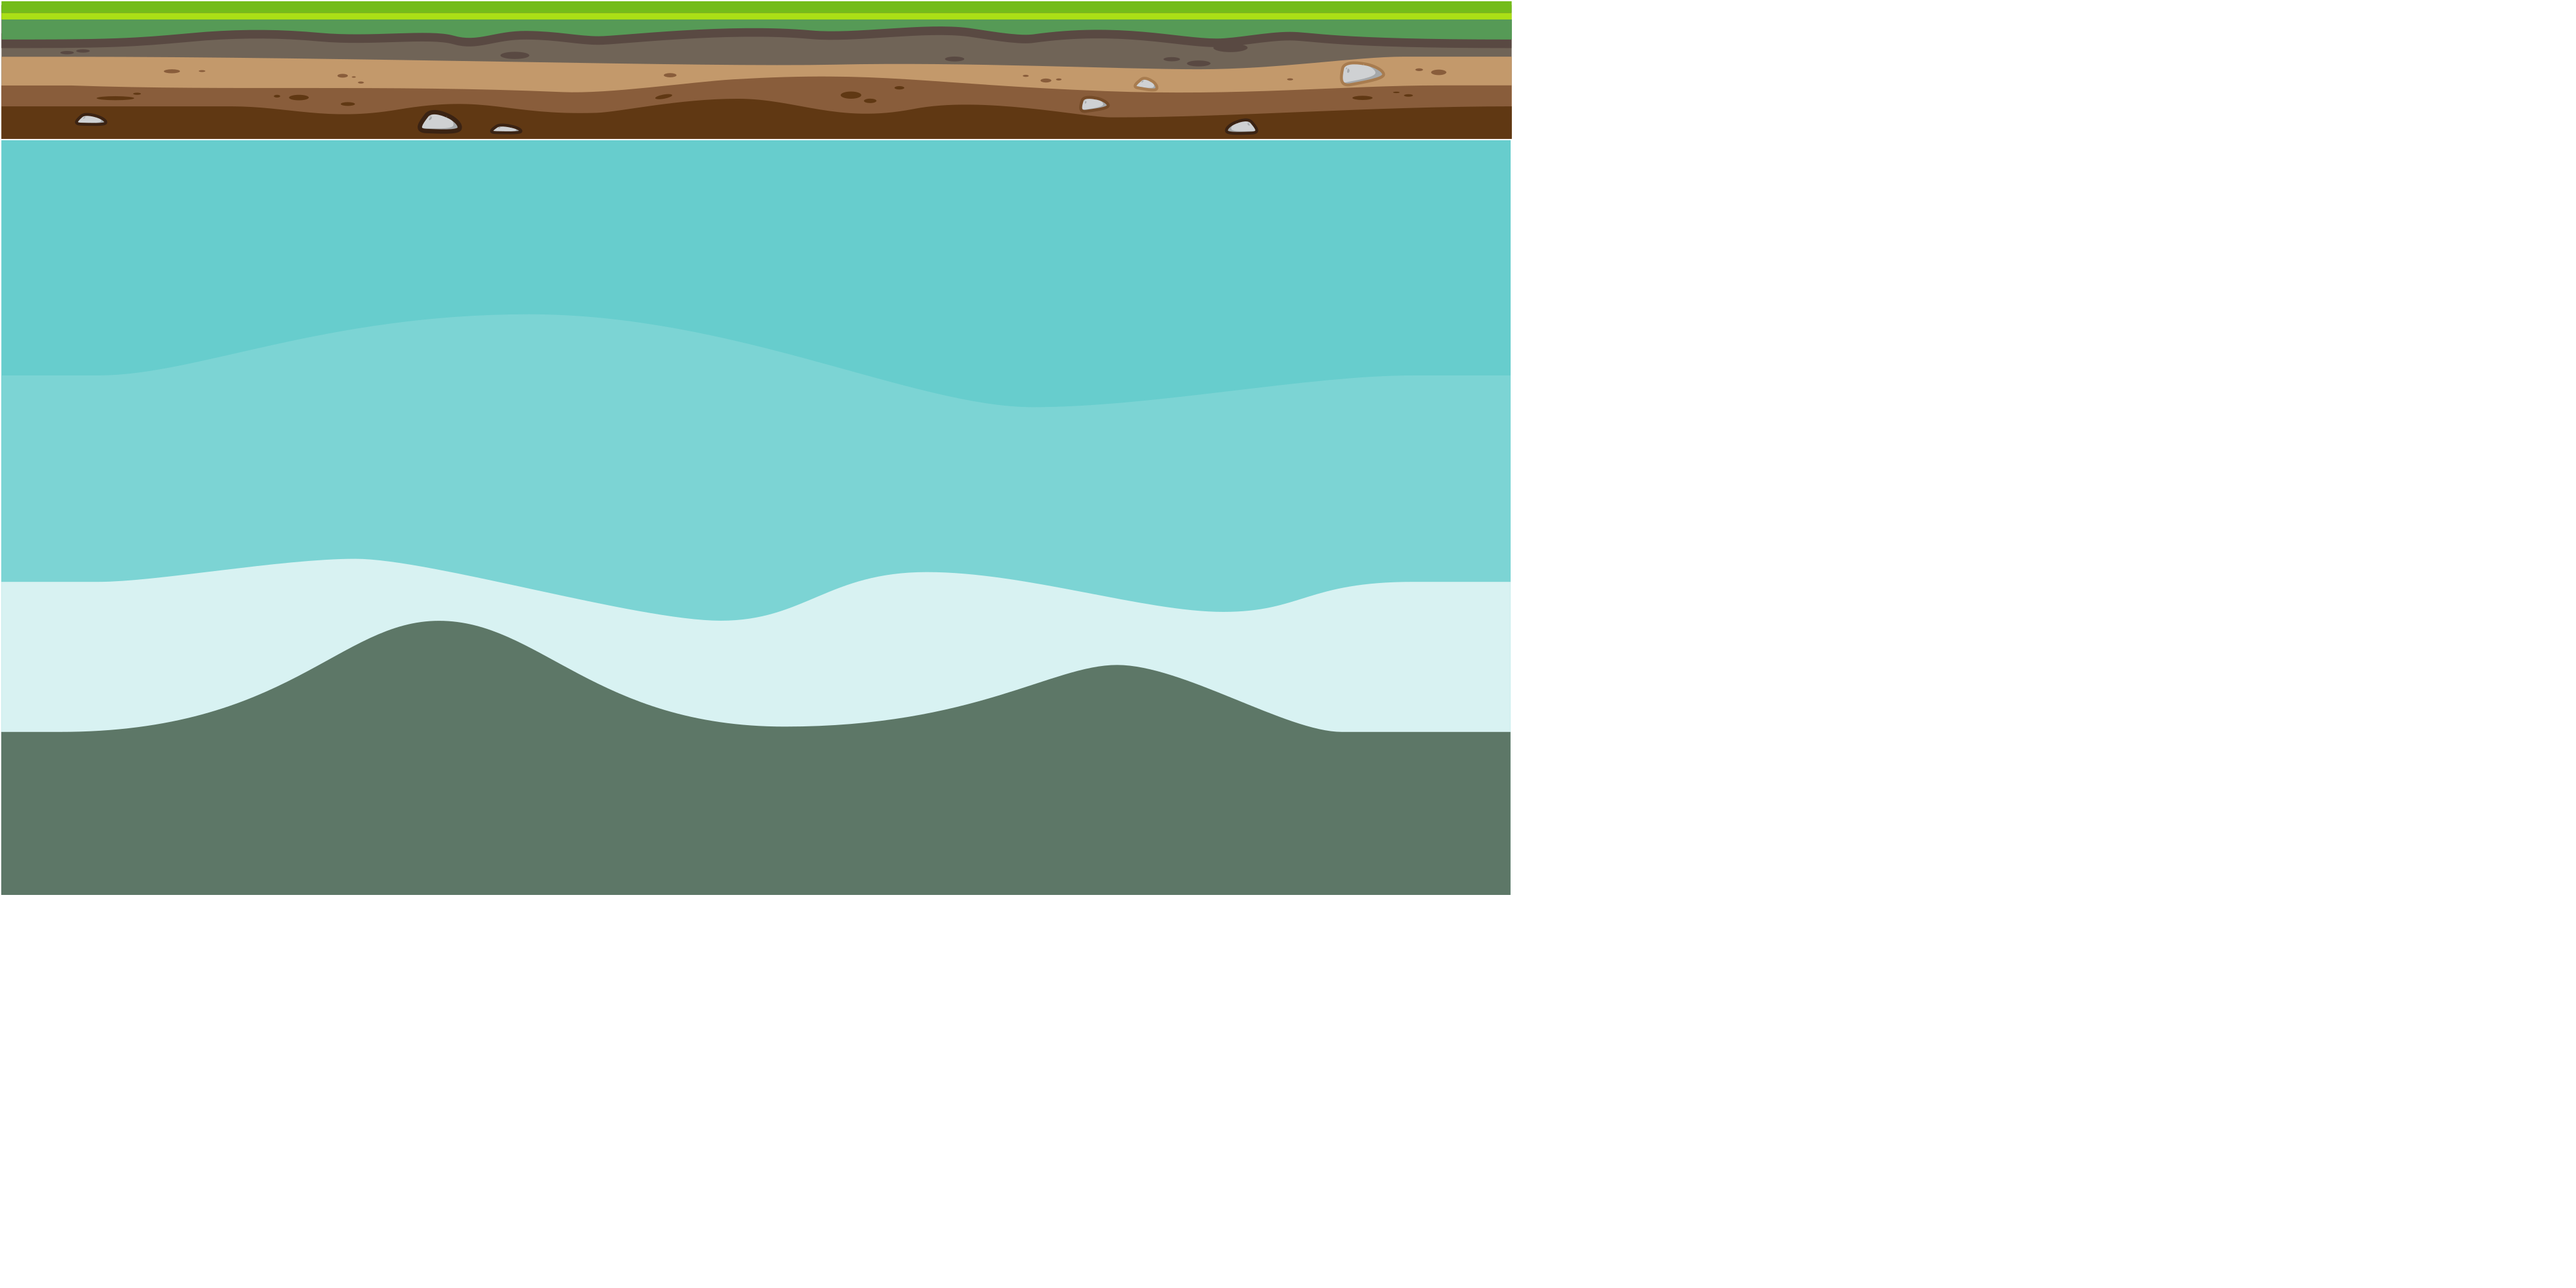
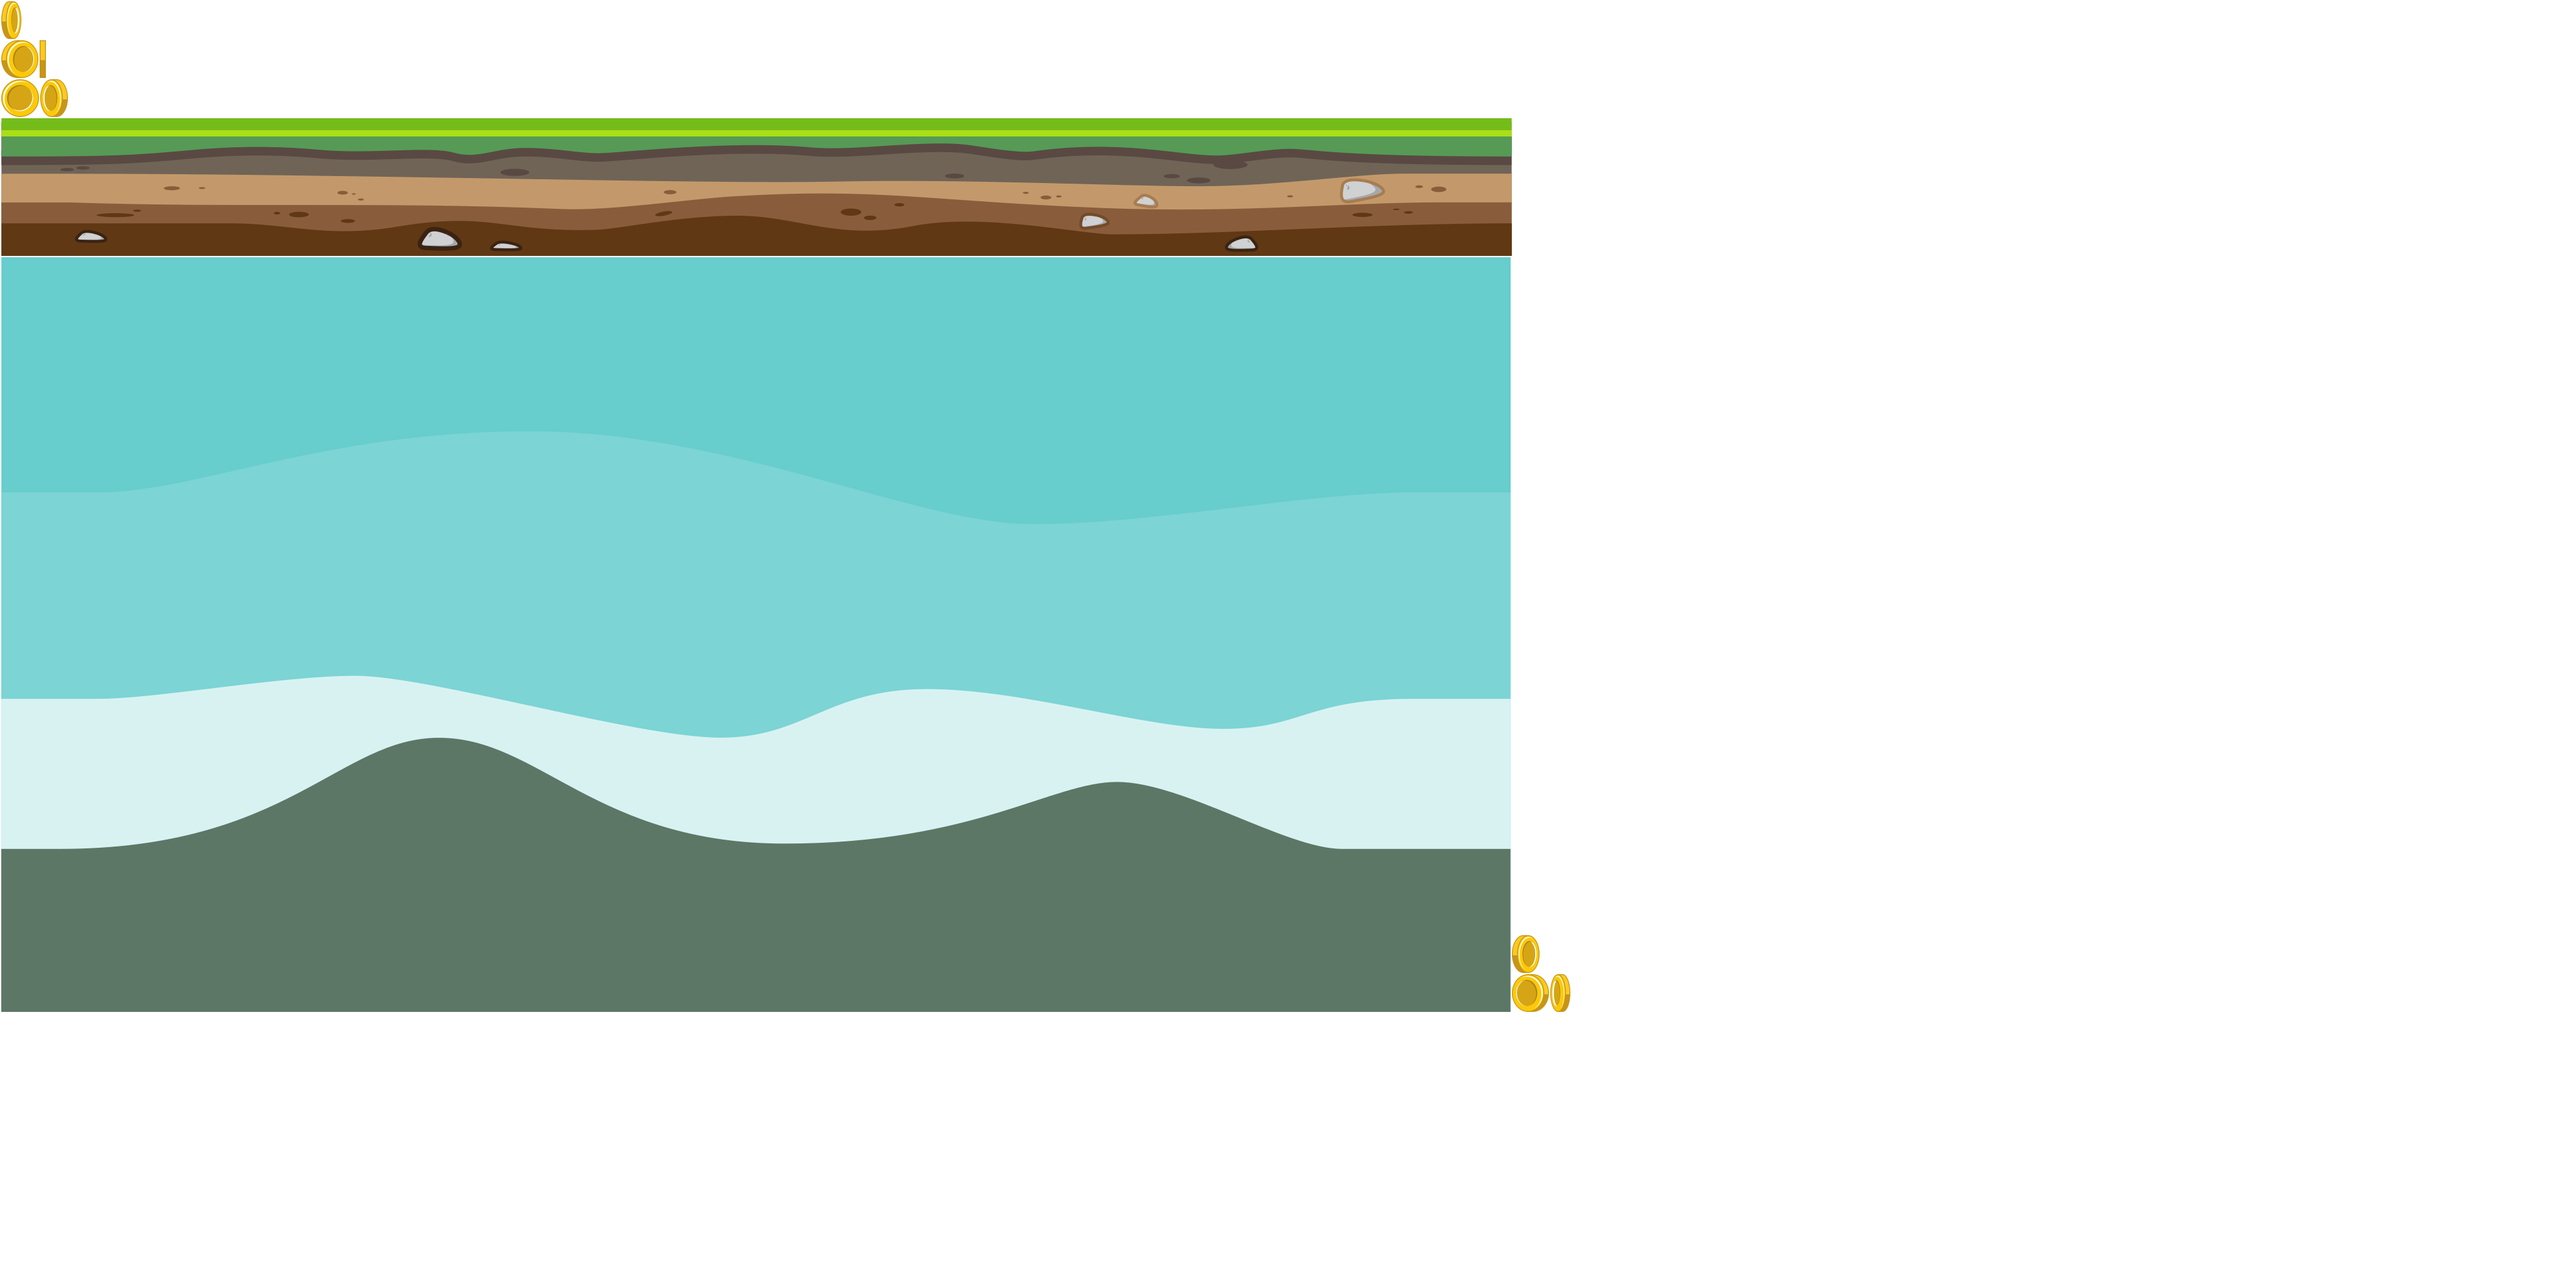
better coin assets

Changed region(s): [[0.0, 0.0, 0.5938, 0.2188], [0.0, 0.4375, 0.5938, 0.6562], [0.0, 0.6875, 0.625, 0.8125]]

diff --git a/core/src/com/mygdx/typer/Assets.kt b/core/src/com/mygdx/typer/Assets.kt
@@ -4,6 +4,7 @@ import com.badlogic.gdx.Gdx
 import com.badlogic.gdx.assets.AssetDescriptor
 import com.badlogic.gdx.assets.AssetErrorListener
 import com.badlogic.gdx.assets.AssetManager
+import com.badlogic.gdx.graphics.Texture
 import com.badlogic.gdx.graphics.g2d.Animation
 import com.badlogic.gdx.graphics.g2d.Animation.PlayMode
 import com.badlogic.gdx.graphics.g2d.TextureAtlas
@@ -11,7 +12,6 @@ import com.badlogic.gdx.graphics.g2d.TextureAtlas.AtlasRegion
 import com.badlogic.gdx.graphics.g2d.TextureRegion
 import com.badlogic.gdx.utils.Array
 import com.mygdx.typer.util.Constants
-import com.mygdx.typer.util.Constants.GROUND_ATLAS
 import com.mygdx.typer.util.Constants.JUMP_ATLAS
 import com.mygdx.typer.util.Constants.MAIN_SCENE_ATLAS
 import com.mygdx.typer.util.Constants.WALK_ATLAS
@@ -21,26 +21,27 @@ class Assets(private val assetManager: AssetManager) : AssetErrorListener {
         const val TAG = "assets"
     }
 
+    lateinit var coin: Animation<AtlasRegion>
     lateinit var walk: Animation<AtlasRegion>
     lateinit var jump: TextureRegion
     lateinit var fall: TextureRegion
 
     lateinit var ground: TextureRegion
     lateinit var background: TextureRegion
+    lateinit var home: Texture //TODO put in a spritesheet
 
     fun init() {
         assetManager.setErrorListener(this)
-
+        home = Texture(Gdx.files.internal("home.png"));
         assetManager.load<TextureAtlas>(WALK_ATLAS, TextureAtlas::class.java)
-        assetManager.load<TextureAtlas>(GROUND_ATLAS, TextureAtlas::class.java)
         assetManager.load<TextureAtlas>(JUMP_ATLAS, TextureAtlas::class.java)
         assetManager.load<TextureAtlas>(MAIN_SCENE_ATLAS, TextureAtlas::class.java)
         assetManager.finishLoading()
-        val atlas: TextureAtlas = assetManager.get(WALK_ATLAS)
-        val walk1 = atlas.findRegion(Constants.WALK1)
-        val walk2 = atlas.findRegion(Constants.WALK2)
-        val walk3 = atlas.findRegion(Constants.WALK3)
-        val walk4 = atlas.findRegion(Constants.WALK4)
+        val walkAtlas: TextureAtlas = assetManager.get(WALK_ATLAS)
+        val walk1 = walkAtlas.findRegion(Constants.WALK1)
+        val walk2 = walkAtlas.findRegion(Constants.WALK2)
+        val walk3 = walkAtlas.findRegion(Constants.WALK3)
+        val walk4 = walkAtlas.findRegion(Constants.WALK4)
 
         val walkFrames: Array<AtlasRegion> = Array<AtlasRegion>()
         walkFrames.add(walk1)
@@ -50,12 +51,22 @@ class Assets(private val assetManager: AssetManager) : AssetErrorListener {
 
         walk = Animation(.15f, walkFrames, PlayMode.LOOP)
 
-//        val groundAtlas: TextureAtlas = assetManager.get(GROUND_ATLAS)
-//        ground = groundAtlas.findRegion(Constants.GROUND)
 
         val groundAtlas: TextureAtlas = assetManager.get(MAIN_SCENE_ATLAS)
         ground = groundAtlas.findRegion(Constants.LAND)
         background = groundAtlas.findRegion(Constants.BACKGROUND)
+
+        //TODO fix coins
+        val coinFrames: Array<AtlasRegion> = Array<AtlasRegion>()
+        coinFrames.add(groundAtlas.findRegion(Constants.COIN1))
+        coinFrames.add(groundAtlas.findRegion(Constants.COIN2))
+        coinFrames.add(groundAtlas.findRegion(Constants.COIN3))
+        coinFrames.add(groundAtlas.findRegion(Constants.COIN4))
+        //coinFrames.add(groundAtlas.findRegion(Constants.COIN5))
+        coinFrames.add(groundAtlas.findRegion(Constants.COIN6))
+        coinFrames.add(groundAtlas.findRegion(Constants.COIN7))
+        coinFrames.add(groundAtlas.findRegion(Constants.COIN8))
+        coin = Animation(0.05f, coinFrames, PlayMode.LOOP)
 
         val jumpAtlas: TextureAtlas = assetManager.get(JUMP_ATLAS)
         jump = jumpAtlas.findRegion(Constants.JUMP)

diff --git a/core/src/com/mygdx/typer/entities/Coin.kt b/core/src/com/mygdx/typer/entities/Coin.kt
@@ -1,12 +1,14 @@
 package com.mygdx.typer.entities
 
-import com.badlogic.gdx.Input
 import com.badlogic.gdx.graphics.g2d.BitmapFont
 import com.badlogic.gdx.graphics.g2d.SpriteBatch
+import com.badlogic.gdx.math.MathUtils
 import com.badlogic.gdx.math.Rectangle
 import com.badlogic.gdx.math.Vector2
+import com.badlogic.gdx.utils.TimeUtils
 import com.mygdx.typer.Assets
 import com.mygdx.typer.KeyProcessor
+import com.mygdx.typer.util.Constants
 import com.mygdx.typer.util.DrawUtils
 
 
@@ -15,14 +17,22 @@ class Coin(val target: Char,
            private val font: BitmapFont,
            val position: Vector2) {
 
+    private val coinStartTime = TimeUtils.nanoTime()
     //TODO fix this
     val boundingBox = Rectangle(position.x, position.y, 60f, 60f)
 
     fun render(batch: SpriteBatch) {
+        val coinTime = TimeUtils.timeSinceNanos(coinStartTime) * MathUtils.nanoToSec
+        val region = assets.coin.getKeyFrame(coinTime)
+
         batch.begin()
-        DrawUtils.drawTextureRegion(batch, assets.ground, position.x, position.y, 60f, 60f)
-        val toDisplay = if (target == KeyProcessor.HOMEROW) "!!" else target.toString()
-        font.draw(batch, toDisplay, position.x, position.y + 50)
+        DrawUtils.drawTextureRegion(batch, region, position.x, position.y, 60f, 60f)
+
+        if (target == KeyProcessor.HOMEROW) {
+            batch.draw(assets.home, position.x + Constants.HOME_ICON_OFFSET, position.y + Constants.HOME_ICON_OFFSET)
+        } else {
+            font.draw(batch, target.toString(), position.x + Constants.COIN_OFFSET, position.y + 50)
+        }
         batch.end()
     }
 }

diff --git a/core/src/com/mygdx/typer/GameScreen.kt b/core/src/com/mygdx/typer/GameScreen.kt
@@ -4,7 +4,9 @@ import com.badlogic.gdx.Gdx
 import com.badlogic.gdx.InputProcessor
 import com.badlogic.gdx.ScreenAdapter
 import com.badlogic.gdx.assets.AssetManager
+import com.badlogic.gdx.graphics.Color
 import com.badlogic.gdx.graphics.GL20
+import com.badlogic.gdx.graphics.Texture
 import com.badlogic.gdx.graphics.g2d.BitmapFont
 import com.badlogic.gdx.graphics.g2d.SpriteBatch
 import com.badlogic.gdx.math.Vector2
@@ -43,8 +45,9 @@ class GameScreen(val keyProcessor: KeyProcessor) : ScreenAdapter(),
         viewport = ExtendViewport(Constants.WORLD_SIZE_X, Constants.WORLD_SIZE_Y)
         batch = SpriteBatch()
         assets.init()
-        font = BitmapFont()
-        font.data.setScale(4f)
+        font = BitmapFont(Gdx.files.internal("80.fnt"), false)
+        font.data.scale(-0.3f)
+        font.setColor(Color.BLACK)
         coins = DelayedRemovalArray<Coin>()
 
 
@@ -62,7 +65,7 @@ class GameScreen(val keyProcessor: KeyProcessor) : ScreenAdapter(),
         player = Player(assets)
 
         for (ground in grounds) {
-            val numCoins: Int = (Math.random() * 5).toInt() + 5
+            val numCoins: Int = (Math.random() * 5f).toInt() + 5
             for (position in ground.generateCoinLocations(numCoins)) {
                 val target = if (Random.nextBoolean()) KeyProcessor.HOMEROW else 'j'
                 coins.add(Coin(target, assets, font, position))
@@ -133,6 +136,7 @@ class GameScreen(val keyProcessor: KeyProcessor) : ScreenAdapter(),
     override fun dispose() {
         super.dispose()
         batch.dispose()
+        font.dispose()
     }
 
 }

diff --git a/core/src/com/mygdx/typer/util/Constants.kt b/core/src/com/mygdx/typer/util/Constants.kt
@@ -2,12 +2,13 @@ package com.mygdx.typer.util
 
 object Constants {
 
+    const val HOME_ICON_OFFSET = 10
+    const val COIN_OFFSET = 30
     const val COIN_ALTITUDE = 200f
-    val PIXELS_PER_INCH = 80f
-    const val LAND_HEIGHT = 219f
+    const val PIXELS_PER_INCH = 80f
     const val WORLD_SIZE_X = 800f
     const val WORLD_SIZE_Y = 500f
-    const val CAMERA_OFFSET_X = WORLD_SIZE_X / 2
+    const val CAMERA_OFFSET_X = WORLD_SIZE_X / 3
     const val CAMERA_OFFSET_Y = 200
     const val KILL_PLANE = -2500
 
@@ -17,8 +18,7 @@ object Constants {
 
     const val JUMP_SPEED: Float = 1200f
     const val GRAVITY: Float = 4000f
-    const val FORWARD_VELOCITY: Float = 200f
-    const val GROUND_ATLAS = "ground.atlas"
+    const val FORWARD_VELOCITY: Float = 300f
     const val WALK_ATLAS = "walk.atlas"
     const val WALK1 = "walk-1"
     const val WALK2 = "walk-2"
@@ -33,6 +33,14 @@ object Constants {
     const val MAIN_SCENE_ATLAS = "pack.atlas"
     const val LAND = "land"
     const val BACKGROUND = "bgHill"
+    const val COIN1 = "coin1"
+    const val COIN2 = "coin2"
+    const val COIN3 = "coin3"
+    const val COIN4 = "coin4"
+    const val COIN5 = "coin5"
+    const val COIN6 = "coin6"
+    const val COIN7 = "coin7"
+    const val COIN8 = "coin8"
 
 
 }
